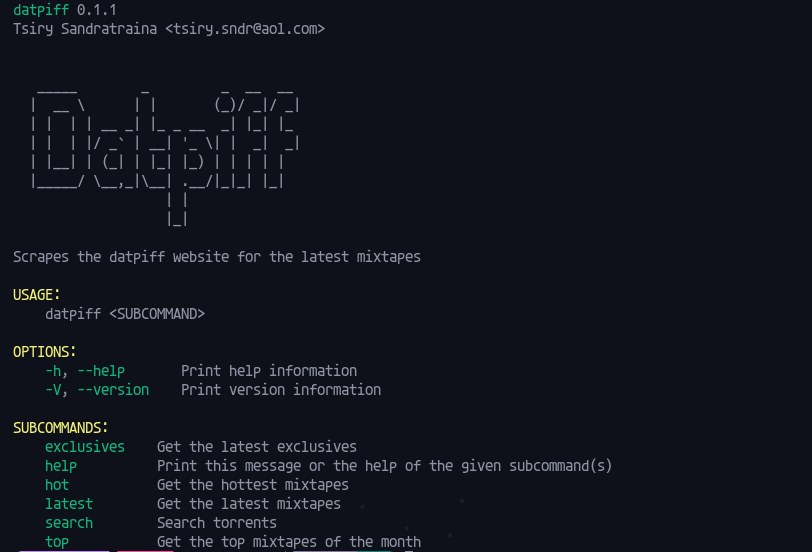
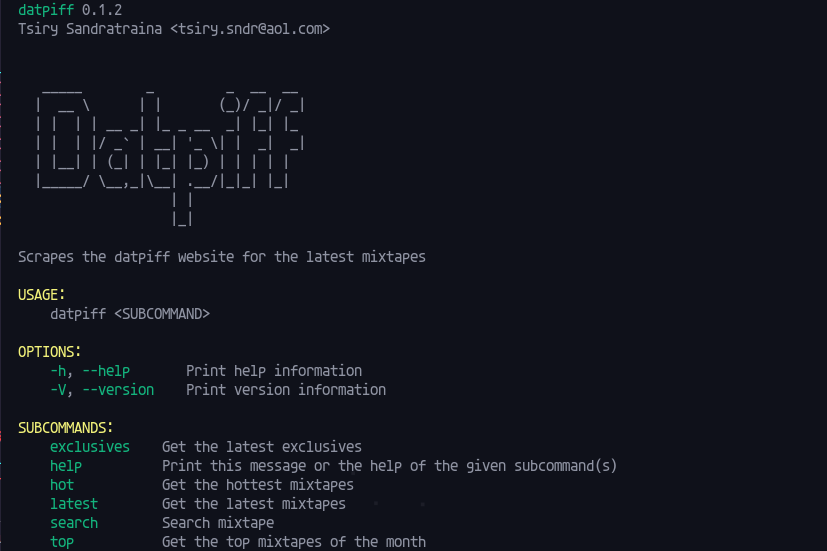
bump version code

diff --git a/src/main.rs b/src/main.rs
@@ -26,7 +26,7 @@ Scrapes the datpiff website for the latest mixtapes"#,
         .subcommand(Command::new("exclusives").about("Get the latest exclusives"))
         .subcommand(Command::new("top").about("Get the top mixtapes of the month"))
         .subcommand(
-            Command::new("search").about("Search torrents").arg(
+            Command::new("search").about("Search mixtape").arg(
                 Arg::with_name("query")
                     .help("The query to search for")
                     .required(true)
